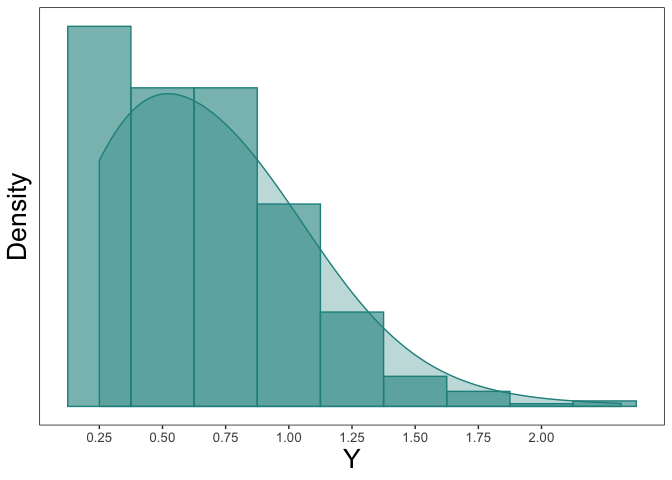
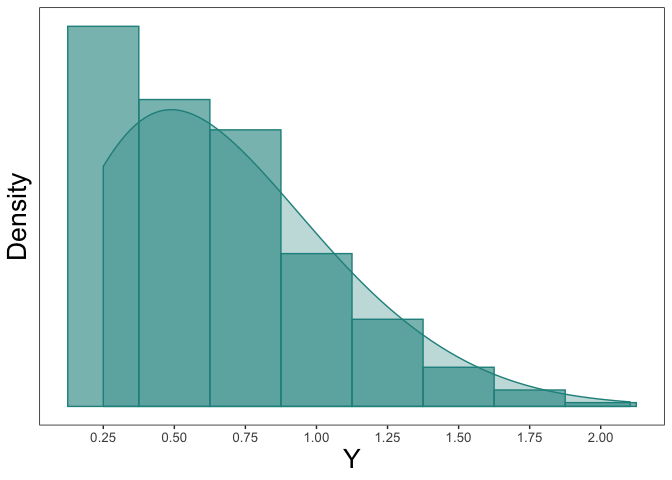
updating README to include comparison varying the number of covariates

diff --git a/README.md b/README.md
@@ -4,9 +4,9 @@ Censored Data
 
 The goal of this package is to estimate parameters from a linear model
 when the data comes from a truncated normal distribution with censoring.
-Maximum likelihood values are returned derived from Newton-Raphson
-algorithm using analytic values of the gradient and hessian. This
-package is also able to return maximum likelihood estimates for
+Maximum likelihood values are returned. There are multiple method
+availabe for optimzation with the default set as conjugate gradient.
+This package is also able to return maximum likelihood estimates for
 truncated only or censored only data similar to `truncreg` and `censReg`
 packages.
 
@@ -48,7 +48,7 @@ y_star <- msm::rtnorm(n=1000, mean=mu, sd=sigma, lower=a)
 round(range(y_star), 3)
 ```
 
-    ## [1] 0.001 2.315
+    ## [1] 0.003 2.103
 
 Next, we can imagine a scenario where we have an imprecise measurement
 of `y_star` leading to censoring. In our case we assume that values
@@ -64,7 +64,7 @@ y <- ifelse(y_star <= nu, nu, y_star)
 sum(y == nu)/length(y) 
 ```
 
-    ## [1] 0.169
+    ## [1] 0.186
 
 ``` r
 #collecting the uncensored and censored data together
@@ -89,22 +89,25 @@ tcensReg(y ~ 1, data=dt, a=0, v=0.25)
 
     ## $theta
     ##               Estimate
-    ## (Intercept)  0.5189561
-    ## log_sigma   -0.7221709
+    ## (Intercept)  0.4742489
+    ## log_sigma   -0.6987893
     ## 
-    ## $iterations
-    ## [1] 5
+    ## $convergence
+    ## [1] 0
     ## 
     ## $initial_ll
-    ## [1] -650.9469
+    ## [1] -662.649
     ## 
     ## $final_ll
-    ## [1] -637.8782
+    ## [1] -647.0706
     ## 
     ## $var_cov
     ##               (Intercept)     log_sigma
-    ## (Intercept)  0.0007132681 -0.0007207643
-    ## log_sigma   -0.0007207643  0.0014917831
+    ## (Intercept)  0.0009034583 -0.0009092862
+    ## log_sigma   -0.0009092862  0.0016547034
+    ## 
+    ## $method
+    ## [1] "CG"
 
 Note that the this will return parameter estimates, variance-covariance
 matrix, the number of iterations until convergence, and the
@@ -150,9 +153,9 @@ knitr::kable(results_df, format="markdown", digits=4)
 |            |     mu |  sigma | mu\_bias | sigma\_bias |
 | :--------- | -----: | -----: | -------: | ----------: |
 | Truth      | 0.5000 | 0.5000 |   0.0000 |      0.0000 |
-| tcensReg   | 0.5190 | 0.4857 |   0.0190 |      0.0143 |
-| Normal MLE | 0.6663 | 0.3665 |   0.1663 |      0.1335 |
-| Tobit      | 0.6269 | 0.4257 |   0.1269 |      0.0743 |
+| tcensReg   | 0.4742 | 0.4972 |   0.0258 |      0.0028 |
+| Normal MLE | 0.6478 | 0.3632 |   0.1478 |      0.1368 |
+| Tobit      | 0.6029 | 0.4288 |   0.1029 |      0.0712 |
 
 Other methods result in significant bias for both `mu` and `sigma`.
 
@@ -173,8 +176,8 @@ knitr::kable(summary(cens), format="markdown", digits=4)
 
 | expr             |     min |      lq |    mean |  median |      uq |     max | neval |
 | :--------------- | ------: | ------: | ------: | ------: | ------: | ------: | ----: |
-| tcensReg\_method |  4.6379 |  4.8512 |  6.3422 |  5.0025 |  6.3376 | 20.1618 |   100 |
-| censReg\_method  | 12.9750 | 13.7025 | 19.2394 | 19.0990 | 21.8625 | 40.6805 |   100 |
+| tcensReg\_method | 24.7772 | 26.5190 | 32.5133 | 30.5842 | 33.9153 | 166.759 |   100 |
+| censReg\_method  | 13.2655 | 14.2402 | 18.5621 | 18.4296 | 21.7800 |  35.169 |   100 |
 
 ``` r
 #point estimates are equivalent
@@ -193,10 +196,10 @@ trunc <- microbenchmark(tcensReg_method = tcensReg(y_star ~ 1, data=dt, a=a),
 knitr::kable(summary(trunc), format="markdown", digits=4)
 ```
 
-| expr             |     min |      lq |   mean |  median |      uq |      max | neval |
-| :--------------- | ------: | ------: | -----: | ------: | ------: | -------: | ----: |
-| tcensReg\_method |  8.2999 |  8.5009 | 11.302 |  8.7389 | 10.7705 | 150.1723 |   100 |
-| truncreg\_method | 29.9381 | 33.6737 | 36.930 | 37.3379 | 39.4693 |  45.7826 |   100 |
+| expr             |     min |      lq |    mean |  median |      uq |      max | neval |
+| :--------------- | ------: | ------: | ------: | ------: | ------: | -------: | ----: |
+| tcensReg\_method | 52.7459 | 59.5195 | 72.9313 | 63.4229 | 75.1919 | 150.1456 |   100 |
+| truncreg\_method | 26.0952 | 30.7935 | 44.3462 | 34.2984 | 48.6492 | 175.9566 |   100 |
 
 ``` r
 tcensReg_est <- as.numeric(tcensReg(y_star ~ 1, data=dt, a=a)$theta)
@@ -206,4 +209,69 @@ truncreg_est <- as.numeric(coef(truncreg(y_star ~ 1, point=a, data=dt)))
 all.equal(tcensReg_est, truncreg_est)
 ```
 
-    ## [1] TRUE
+    ## [1] "Mean relative difference: 1.01036e-07"
+
+In the comparisons above we are using an intercept only model, but in
+general we expect that interest lies in understanding how a set of
+covariates effect the mean response. So to test the sensitivity and
+speed as the number of covariates approaches `n` we can generate
+independent random variables `X` and fit the regression model of `Y` or
+`Y_star`.
+
+We can compare the censored-only and truncated-only performance with 100
+predictors, i.e. `p`=100. To illustrate some of the other available
+optimization methods we will set method to BFGS, which is a quasi-Newton
+optimization method.
+
+``` r
+#number of predictors
+p <- 100
+X <- NULL
+for(i in seq_len(p)){
+    X_i <- rnorm(n = length(y))
+    X <- cbind(X, X_i)
+}
+colnames(X) <- paste0("var_", seq_len(p))
+dt <- data.frame(y, X)
+
+#testing the censored-only regression with 100 covariates
+cens <- microbenchmark(tcensReg_method = tcensReg(y ~ ., data=dt, v=nu, method="BFGS"),
+               censReg_method = censReg(y ~ ., left=nu, data=dt))
+knitr::kable(summary(cens), format="markdown", digits=4)
+```
+
+| expr             |    min |     lq |   mean | median |     uq |     max | neval |
+| :--------------- | -----: | -----: | -----: | -----: | -----: | ------: | ----: |
+| tcensReg\_method | 2.9938 | 3.1452 | 3.4451 | 3.4129 | 3.5943 |  5.1187 |   100 |
+| censReg\_method  | 5.1218 | 5.5220 | 6.1152 | 5.9052 | 6.4531 | 13.3543 |   100 |
+
+``` r
+#point estimates are equivalent
+tcensReg_est <- as.numeric(tcensReg(y ~ ., data=dt, v=nu, method="BFGS")$theta)
+censReg_est <- as.numeric(coef(censReg(y ~ ., left=nu, data=dt)))
+all.equal(tcensReg_est, censReg_est)
+```
+
+    ## [1] "Mean relative difference: 0.0001264925"
+
+``` r
+#testing the truncated-only regression with 100 covariates
+trunc <- microbenchmark(tcensReg_method = tcensReg(y_star ~ ., data=dt, a=a, method="BFGS"),
+                        truncreg_method = truncreg(y_star ~ ., point=a, data=dt))
+knitr::kable(summary(trunc), format="markdown", digits=4)
+```
+
+| expr             |    min |     lq |   mean | median |     uq |    max | neval |
+| :--------------- | -----: | -----: | -----: | -----: | -----: | -----: | ----: |
+| tcensReg\_method | 3.3593 | 3.4709 | 3.7231 | 3.6396 | 3.8868 | 4.8114 |   100 |
+| truncreg\_method | 3.2330 | 3.4077 | 3.6417 | 3.5779 | 3.8301 | 4.6273 |   100 |
+
+``` r
+tcensReg_est <- as.numeric(tcensReg(y_star ~ ., data=dt, a=a, method="BFGS")$theta)
+#note truncreg returns sigma not log_sigma so we need to exponentiate our value
+tcensReg_est[2] <- exp(tcensReg_est[2])
+truncreg_est <- as.numeric(coef(truncreg(y_star ~ ., point=a, data=dt)))
+all.equal(tcensReg_est, truncreg_est)
+```
+
+    ## [1] "Mean relative difference: 0.802159"
